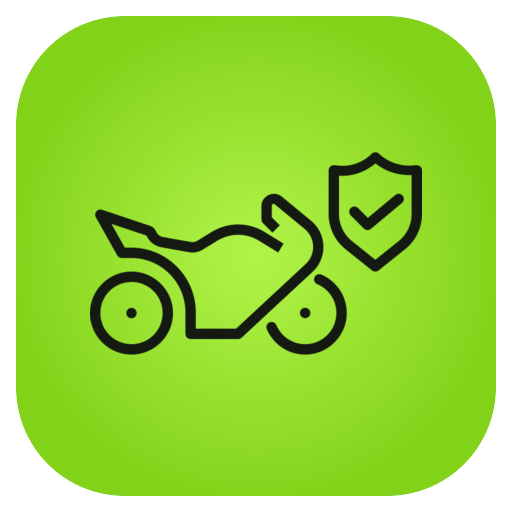
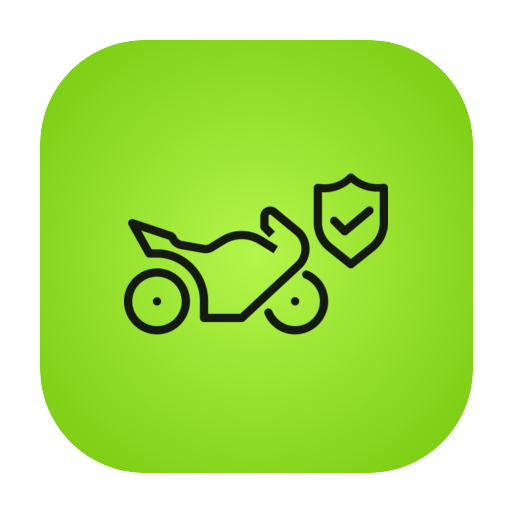
refactor: optimize app initialization and assets
- Remove redundant preloading of maskable icon.
- Cache document element for performance in theme script.
- Update icon assets for better visual consistency.

Changed region(s): [[0.0312, 0.0312, 0.9688, 0.9688], [0.1562, 0.2812, 0.8438, 0.7188]]

diff --git a/index.html b/index.html
@@ -16,13 +16,12 @@
     <meta name="apple-mobile-web-app-title" content="Bike Tracker" />
     <link rel="icon" type="image/png" href="/favicon.png" />
     <link rel="apple-touch-icon" href="/apple-touch-icon.png" />
-    <link rel="preload" as="image" href="/pwa-maskable-512x512.png" />
     <link rel="preconnect" href="https://fonts.googleapis.com">
     <link rel="preconnect" href="https://fonts.gstatic.com" crossorigin>
     <link href="https://fonts.googleapis.com/css2?family=Hind+Siliguri:wght@400;500;600;700&family=Plus+Jakarta+Sans:wght@400;500;600;700&display=swap" rel="stylesheet">
     <script>
       (function () {
-        window.__APP_BOOT_START__ = performance.now();
+        var docEl = document.documentElement;
         try {
           var raw = localStorage.getItem('bike_tracker_settings');
           var parsed = raw ? JSON.parse(raw) : null;
@@ -30,12 +29,19 @@
             ? parsed.darkMode
             : window.matchMedia && window.matchMedia('(prefers-color-scheme: dark)').matches;
           if (isDark) {
-            document.documentElement.classList.add('dark');
+            docEl.classList.add('dark');
           }
           var meta = document.getElementById('meta-theme-color');
           if (meta) {
             meta.setAttribute('content', isDark ? '#0D110E' : '#F6F7F4');
           }
+          var isStandalone =
+            (window.matchMedia && window.matchMedia('(display-mode: standalone)').matches) ||
+            window.navigator.standalone === true;
+          if (isStandalone) {
+            docEl.classList.add('pwa-standalone');
+          }
+          window.__PWA_STANDALONE__ = isStandalone;
         } catch (e) {}
       })();
     </script>
@@ -45,14 +51,15 @@
         inset: 0;
         z-index: 9999;
         display: flex;
-        flex-direction: column;
         align-items: center;
         justify-content: center;
         background-color: #f6f7f4;
         color: #141912;
-        font-family: 'Plus Jakarta Sans', 'Hind Siliguri', -apple-system, BlinkMacSystemFont, 'Segoe UI', Roboto, sans-serif;
-        transition: opacity 0.34s cubic-bezier(0.22, 1, 0.36, 1), transform 0.34s cubic-bezier(0.22, 1, 0.36, 1);
+        font-family: system-ui, -apple-system, 'Plus Jakarta Sans', 'Segoe UI', Roboto, sans-serif;
+        overflow: hidden;
+        transition: opacity 0.42s cubic-bezier(0.22, 1, 0.36, 1), transform 0.42s cubic-bezier(0.22, 1, 0.36, 1);
         will-change: opacity, transform;
+        contain: layout style paint;
       }
       html.dark #app-splash {
         background-color: #0d110e;
@@ -60,80 +67,218 @@
       }
       #app-splash.splash-exit {
         opacity: 0;
-        transform: scale(1.03);
+        transform: scale(1.035);
         pointer-events: none;
       }
-      #app-splash .splash-icon-wrap {
-        width: 96px;
-        height: 96px;
-        border-radius: 24px;
-        background: #9ae62e;
-        box-shadow: 0 18px 42px rgba(154, 230, 46, 0.24), 0 4px 14px rgba(0, 0, 0, 0.14);
-        overflow: hidden;
-        animation: splashPop 0.4s cubic-bezier(0.22, 1, 0.36, 1) both;
+      #app-splash .splash-stage {
+        position: relative;
+        width: 84px;
+        height: 84px;
+        display: flex;
+        align-items: center;
+        justify-content: center;
       }
-      #app-splash .splash-icon-wrap img {
-        width: 100%;
-        height: 100%;
+      #app-splash .splash-aura {
+        position: absolute;
+        width: 148px;
+        height: 148px;
+        border-radius: 9999px;
+        background: radial-gradient(circle, rgba(154, 230, 46, 0.28) 0%, rgba(154, 230, 46, 0.08) 46%, rgba(154, 230, 46, 0) 74%);
+        transform: translate3d(0, -34px, 0) scale(0.75);
+        opacity: 0;
+        pointer-events: none;
+        animation: splashAura 0.72s cubic-bezier(0.22, 1, 0.36, 1) 0.14s forwards;
+      }
+      #app-splash .splash-icon-wrap {
+        position: relative;
+        width: 84px;
+        height: 84px;
+        border-radius: 22px;
+        background: radial-gradient(circle at 50% 42%, #b4f64b 0%, #7fd017 100%);
+        box-shadow: 0 14px 36px rgba(154, 230, 46, 0.24), 0 4px 12px rgba(0, 0, 0, 0.16);
+        display: flex;
+        align-items: center;
+        justify-content: center;
+        overflow: hidden;
+        will-change: transform, opacity;
+        animation: splashIconEnter 0.56s cubic-bezier(0.22, 1, 0.36, 1) both;
+      }
+      /* Seamless handoff in installed Android PWA: catches the centered OS icon at opacity:1 and smoothly glides it into the compact 84px icon */
+      html.pwa-standalone #app-splash .splash-icon-wrap {
+        animation: splashIconMorph 0.58s cubic-bezier(0.22, 1, 0.36, 1) both;
+      }
+      #app-splash .splash-icon-wrap::after {
+        content: '';
+        position: absolute;
+        inset: -20%;
+        background: linear-gradient(115deg, transparent 32%, rgba(255, 255, 255, 0.42) 48%, transparent 64%);
+        transform: translate3d(-120%, 0, 0);
+        animation: splashSheen 0.8s cubic-bezier(0.22, 1, 0.36, 1) 0.28s 1 both;
+        pointer-events: none;
+      }
+      #app-splash .splash-glyph {
+        width: 50px;
+        height: 50px;
         display: block;
-        object-fit: cover;
+        object-fit: contain;
+        user-select: none;
+        -webkit-user-drag: none;
+      }
+      #app-splash .splash-meta {
+        position: absolute;
+        top: 66px;
+        left: 50%;
+        width: 240px;
+        transform: translate3d(-50%, 0, 0);
+        display: flex;
+        flex-direction: column;
+        align-items: center;
+        text-align: center;
       }
       #app-splash .splash-title {
-        margin-top: 20px;
-        font-size: 24px;
+        font-size: 22px;
         font-weight: 800;
         letter-spacing: -0.02em;
-        line-height: 1.15;
-        animation: splashRise 0.42s cubic-bezier(0.22, 1, 0.36, 1) 0.05s both;
+        line-height: 28px;
+        height: 28px;
+        opacity: 0;
+        transform: translate3d(0, 12px, 0);
+        animation: splashTextRise 0.46s cubic-bezier(0.22, 1, 0.36, 1) 0.22s forwards;
       }
       #app-splash .splash-sub {
-        margin-top: 6px;
+        margin-top: 4px;
         font-size: 12px;
         font-weight: 600;
-        opacity: 0.62;
-        letter-spacing: 0.01em;
-        animation: splashRise 0.42s cubic-bezier(0.22, 1, 0.36, 1) 0.1s both;
+        line-height: 18px;
+        height: 18px;
+        opacity: 0;
+        color: rgba(20, 25, 18, 0.58);
+        letter-spacing: 0.015em;
+        transform: translate3d(0, 10px, 0);
+        animation: splashTextRise 0.46s cubic-bezier(0.22, 1, 0.36, 1) 0.3s forwards;
+      }
+      html.dark #app-splash .splash-sub {
+        color: rgba(244, 246, 240, 0.58);
       }
       #app-splash .splash-bar {
-        margin-top: 28px;
-        width: 104px;
-        height: 4px;
+        margin-top: 20px;
+        width: 88px;
+        height: 3px;
         border-radius: 9999px;
-        background: rgba(154, 230, 46, 0.2);
+        background: rgba(154, 230, 46, 0.18);
         overflow: hidden;
+        opacity: 0;
+        animation: splashBarFade 0.36s ease-out 0.34s forwards;
       }
       #app-splash .splash-bar-fill {
-        width: 46%;
+        width: 44%;
         height: 100%;
         border-radius: 9999px;
-        background: #9ae62e;
-        animation: splashSlide 1s ease-in-out infinite;
+        background: linear-gradient(90deg, #82d219, #b4f64b);
+        animation: splashSlide 0.95s cubic-bezier(0.4, 0, 0.2, 1) infinite;
       }
-      @keyframes splashPop {
-        from { opacity: 0; transform: scale(0.88); }
-        to { opacity: 1; transform: scale(1); }
+      @keyframes splashIconEnter {
+        0% {
+          opacity: 0;
+          transform: translate3d(0, -18px, 0) scale(0.84);
+        }
+        68% {
+          opacity: 1;
+          transform: translate3d(0, -36px, 0) scale(1.03);
+        }
+        100% {
+          opacity: 1;
+          transform: translate3d(0, -34px, 0) scale(1);
+        }
       }
-      @keyframes splashRise {
-        from { opacity: 0; transform: translateY(8px); }
-        to { opacity: 1; transform: translateY(0); }
+      @keyframes splashIconMorph {
+        0% {
+          opacity: 1;
+          transform: translate3d(0, 0, 0) scale(1.92);
+          border-radius: 26px;
+        }
+        100% {
+          opacity: 1;
+          transform: translate3d(0, -34px, 0) scale(1);
+          border-radius: 22px;
+        }
+      }
+      @keyframes splashAura {
+        0% {
+          opacity: 0;
+          transform: translate3d(0, -34px, 0) scale(0.72);
+        }
+        100% {
+          opacity: 1;
+          transform: translate3d(0, -34px, 0) scale(1);
+        }
+      }
+      @keyframes splashSheen {
+        0% { transform: translate3d(-120%, 0, 0); }
+        100% { transform: translate3d(135%, 0, 0); }
+      }
+      @keyframes splashTextRise {
+        0% {
+          opacity: 0;
+          transform: translate3d(0, 12px, 0);
+        }
+        100% {
+          opacity: 1;
+          transform: translate3d(0, 0, 0);
+        }
+      }
+      @keyframes splashBarFade {
+        from { opacity: 0; }
+        to { opacity: 1; }
       }
       @keyframes splashSlide {
-        0% { transform: translateX(-110%); }
-        100% { transform: translateX(240%); }
+        0% { transform: translate3d(-115%, 0, 0); }
+        100% { transform: translate3d(245%, 0, 0); }
+      }
+      @media (prefers-reduced-motion: reduce) {
+        #app-splash .splash-icon-wrap,
+        html.pwa-standalone #app-splash .splash-icon-wrap,
+        #app-splash .splash-aura,
+        #app-splash .splash-title,
+        #app-splash .splash-sub,
+        #app-splash .splash-bar,
+        #app-splash .splash-icon-wrap::after {
+          animation: none !important;
+          opacity: 1 !important;
+        }
+        #app-splash .splash-icon-wrap {
+          transform: translate3d(0, -34px, 0) scale(1) !important;
+        }
+        #app-splash .splash-title,
+        #app-splash .splash-sub {
+          transform: none !important;
+        }
       }
     </style>
   </head>
   <body class="bg-[#F6F7F4] dark:bg-[#0D110E] text-[#141912] dark:text-[#F4F6F0] antialiased selection:bg-[#9AE62E] selection:text-[#141912]">
     <div id="app-splash" aria-label="Loading Bike Tracker">
-      <div class="splash-icon-wrap">
-        <img src="/pwa-maskable-512x512.png" alt="Bike Tracker Logo" width="96" height="96" decoding="sync" fetchpriority="high" />
+      <div class="splash-stage">
+        <div class="splash-aura" aria-hidden="true"></div>
+        <div class="splash-icon-wrap">
+          <img
+            class="splash-glyph"
[1 lines of base64/hex data omitted]
+            alt="Bike Tracker Logo"
+            width="50"
+            height="50"
+            decoding="sync"
+          />
+        </div>
+        <div class="splash-meta">
+          <div class="splash-title">Bike Tracker</div>
+          <div class="splash-sub">GPS Ride &amp; Health Tracker</div>
+          <div class="splash-bar"><div class="splash-bar-fill"></div></div>
+        </div>
       </div>
-      <div class="splash-title">Bike Tracker</div>
-      <div class="splash-sub">GPS Ride &amp; Health Tracker</div>
-      <div class="splash-bar"><div class="splash-bar-fill"></div></div>
     </div>
+    <script>window.__SPLASH_PAINT_START__ = performance.now();</script>
     <div id="root"></div>
     <script type="module" src="/src/main.tsx"></script>
   </body>
 </html>
-

diff --git a/src/App.tsx b/src/App.tsx
@@ -183,9 +183,17 @@ export default function App() {
     let removeTimer: number | undefined;
 
     if (splash) {
-      const bootStart = (window as Window & { __APP_BOOT_START__?: number }).__APP_BOOT_START__ || 0;
-      const elapsed = bootStart > 0 ? performance.now() - bootStart : 0;
-      const remaining = Math.max(0, 380 - elapsed);
+      const win = window as Window & {
+        __SPLASH_PAINT_START__?: number;
+        __PWA_STANDALONE__?: boolean;
+      };
+      const prefersReducedMotion =
+        typeof window.matchMedia === 'function' &&
+        window.matchMedia('(prefers-reduced-motion: reduce)').matches;
+      const minSplashMs = prefersReducedMotion ? 180 : win.__PWA_STANDALONE__ ? 1050 : 950;
+      const paintStart = win.__SPLASH_PAINT_START__ || performance.now();
+      const elapsed = Math.max(0, performance.now() - paintStart);
+      const remaining = Math.max(0, minSplashMs - elapsed);
 
       raf1 = requestAnimationFrame(() => {
         raf2 = requestAnimationFrame(() => {
@@ -193,7 +201,7 @@ export default function App() {
             splash.classList.add('splash-exit');
             removeTimer = window.setTimeout(() => {
               splash.remove();
-            }, 360);
+            }, 460);
           }, remaining);
         });
       });
